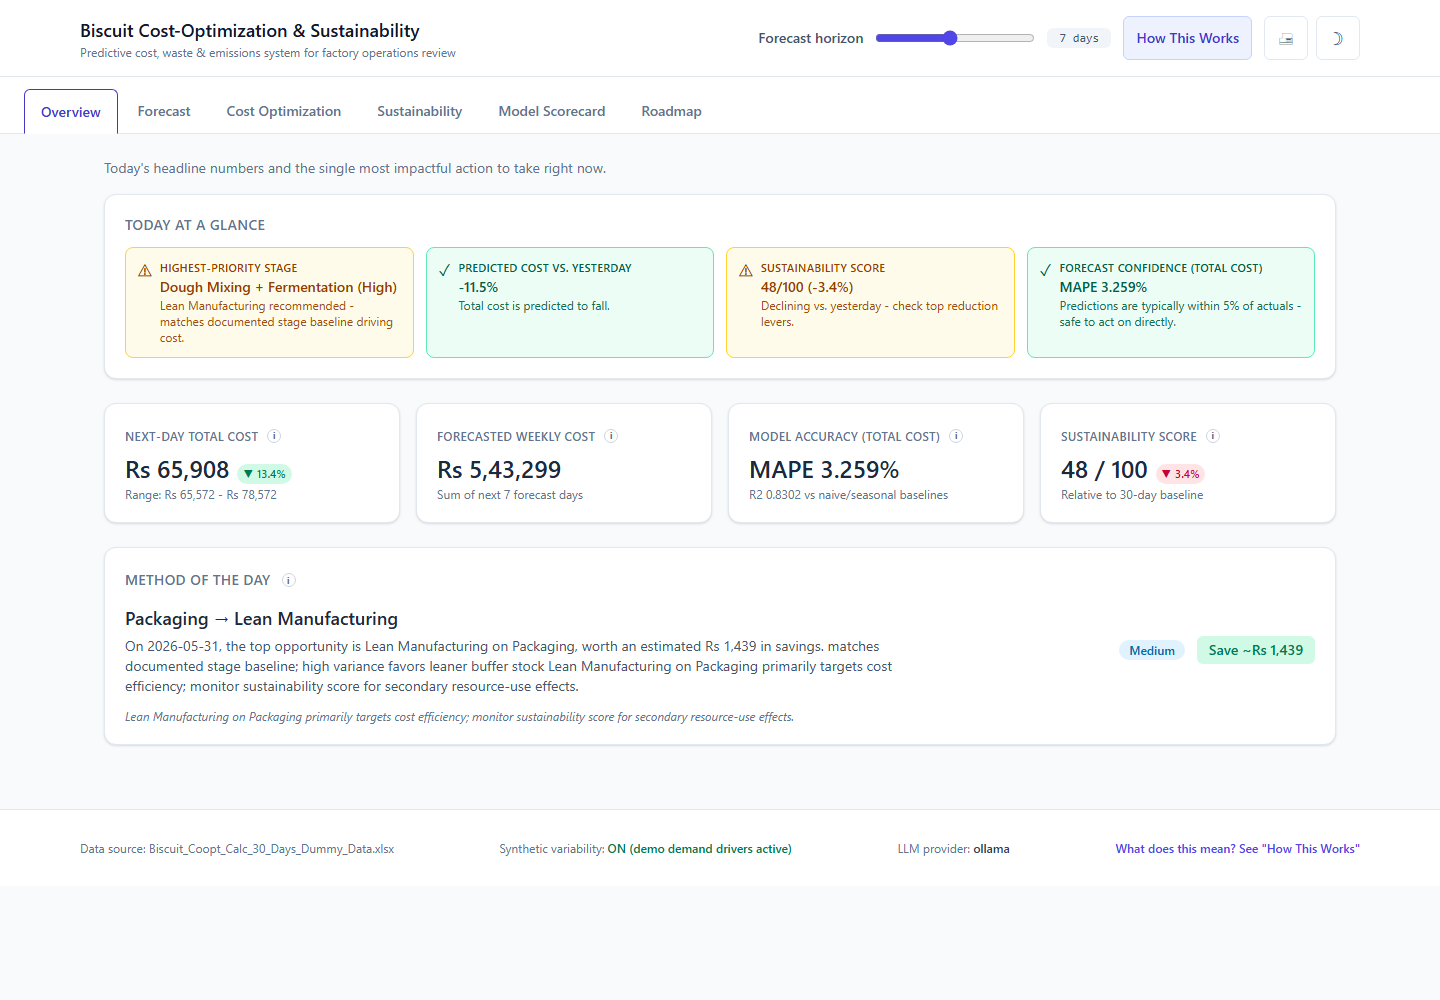
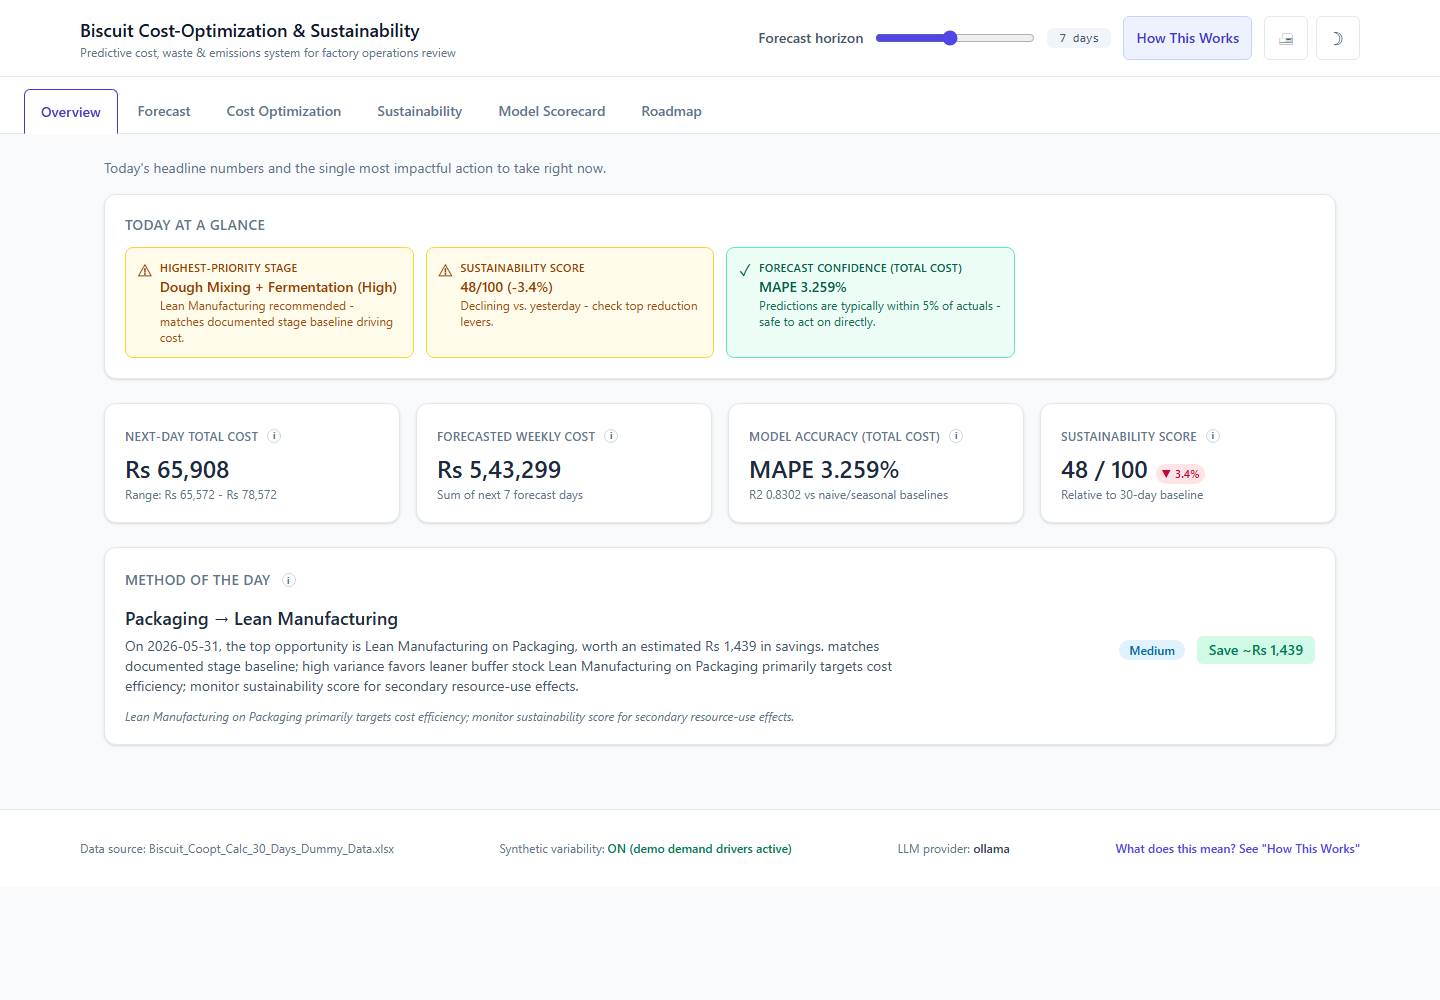
Fix undefined brand-950 dark mode token on Roadmap and Overview

diff --git a/frontend/src/components/Roadmap.tsx b/frontend/src/components/Roadmap.tsx
@@ -116,7 +116,7 @@ export default function Roadmap({
           ) : (
             <ul className="space-y-2">
               {strategic.map((item) => (
-                <li key={item.key} className="rounded-md bg-brand-50 px-3 py-2 text-sm text-slate-700 dark:bg-brand-950/30 dark:text-slate-200">
+                <li key={item.key} className="rounded-md bg-brand-50 px-3 py-2 text-sm text-slate-700 dark:bg-brand-900/30 dark:text-slate-200">
                   {item.action} <span className="text-xs text-slate-500 dark:text-slate-400">({item.timeframe})</span>
                 </li>
               ))}

diff --git a/frontend/src/components/Overview.tsx b/frontend/src/components/Overview.tsx
@@ -108,7 +108,7 @@ export default function Overview({
         <Card
           title="Method of the Day"
           titleExtra={<InfoTip {...OVERVIEW.methodOfTheDay} />}
-          className="border-brand-200 bg-brand-50/40 dark:border-brand-800 dark:bg-brand-950/20"
+          className="border-brand-200 bg-brand-50/40 dark:border-brand-800 dark:bg-brand-900/20"
         >
           <div className="flex flex-wrap items-center justify-between gap-3">
             <div>
